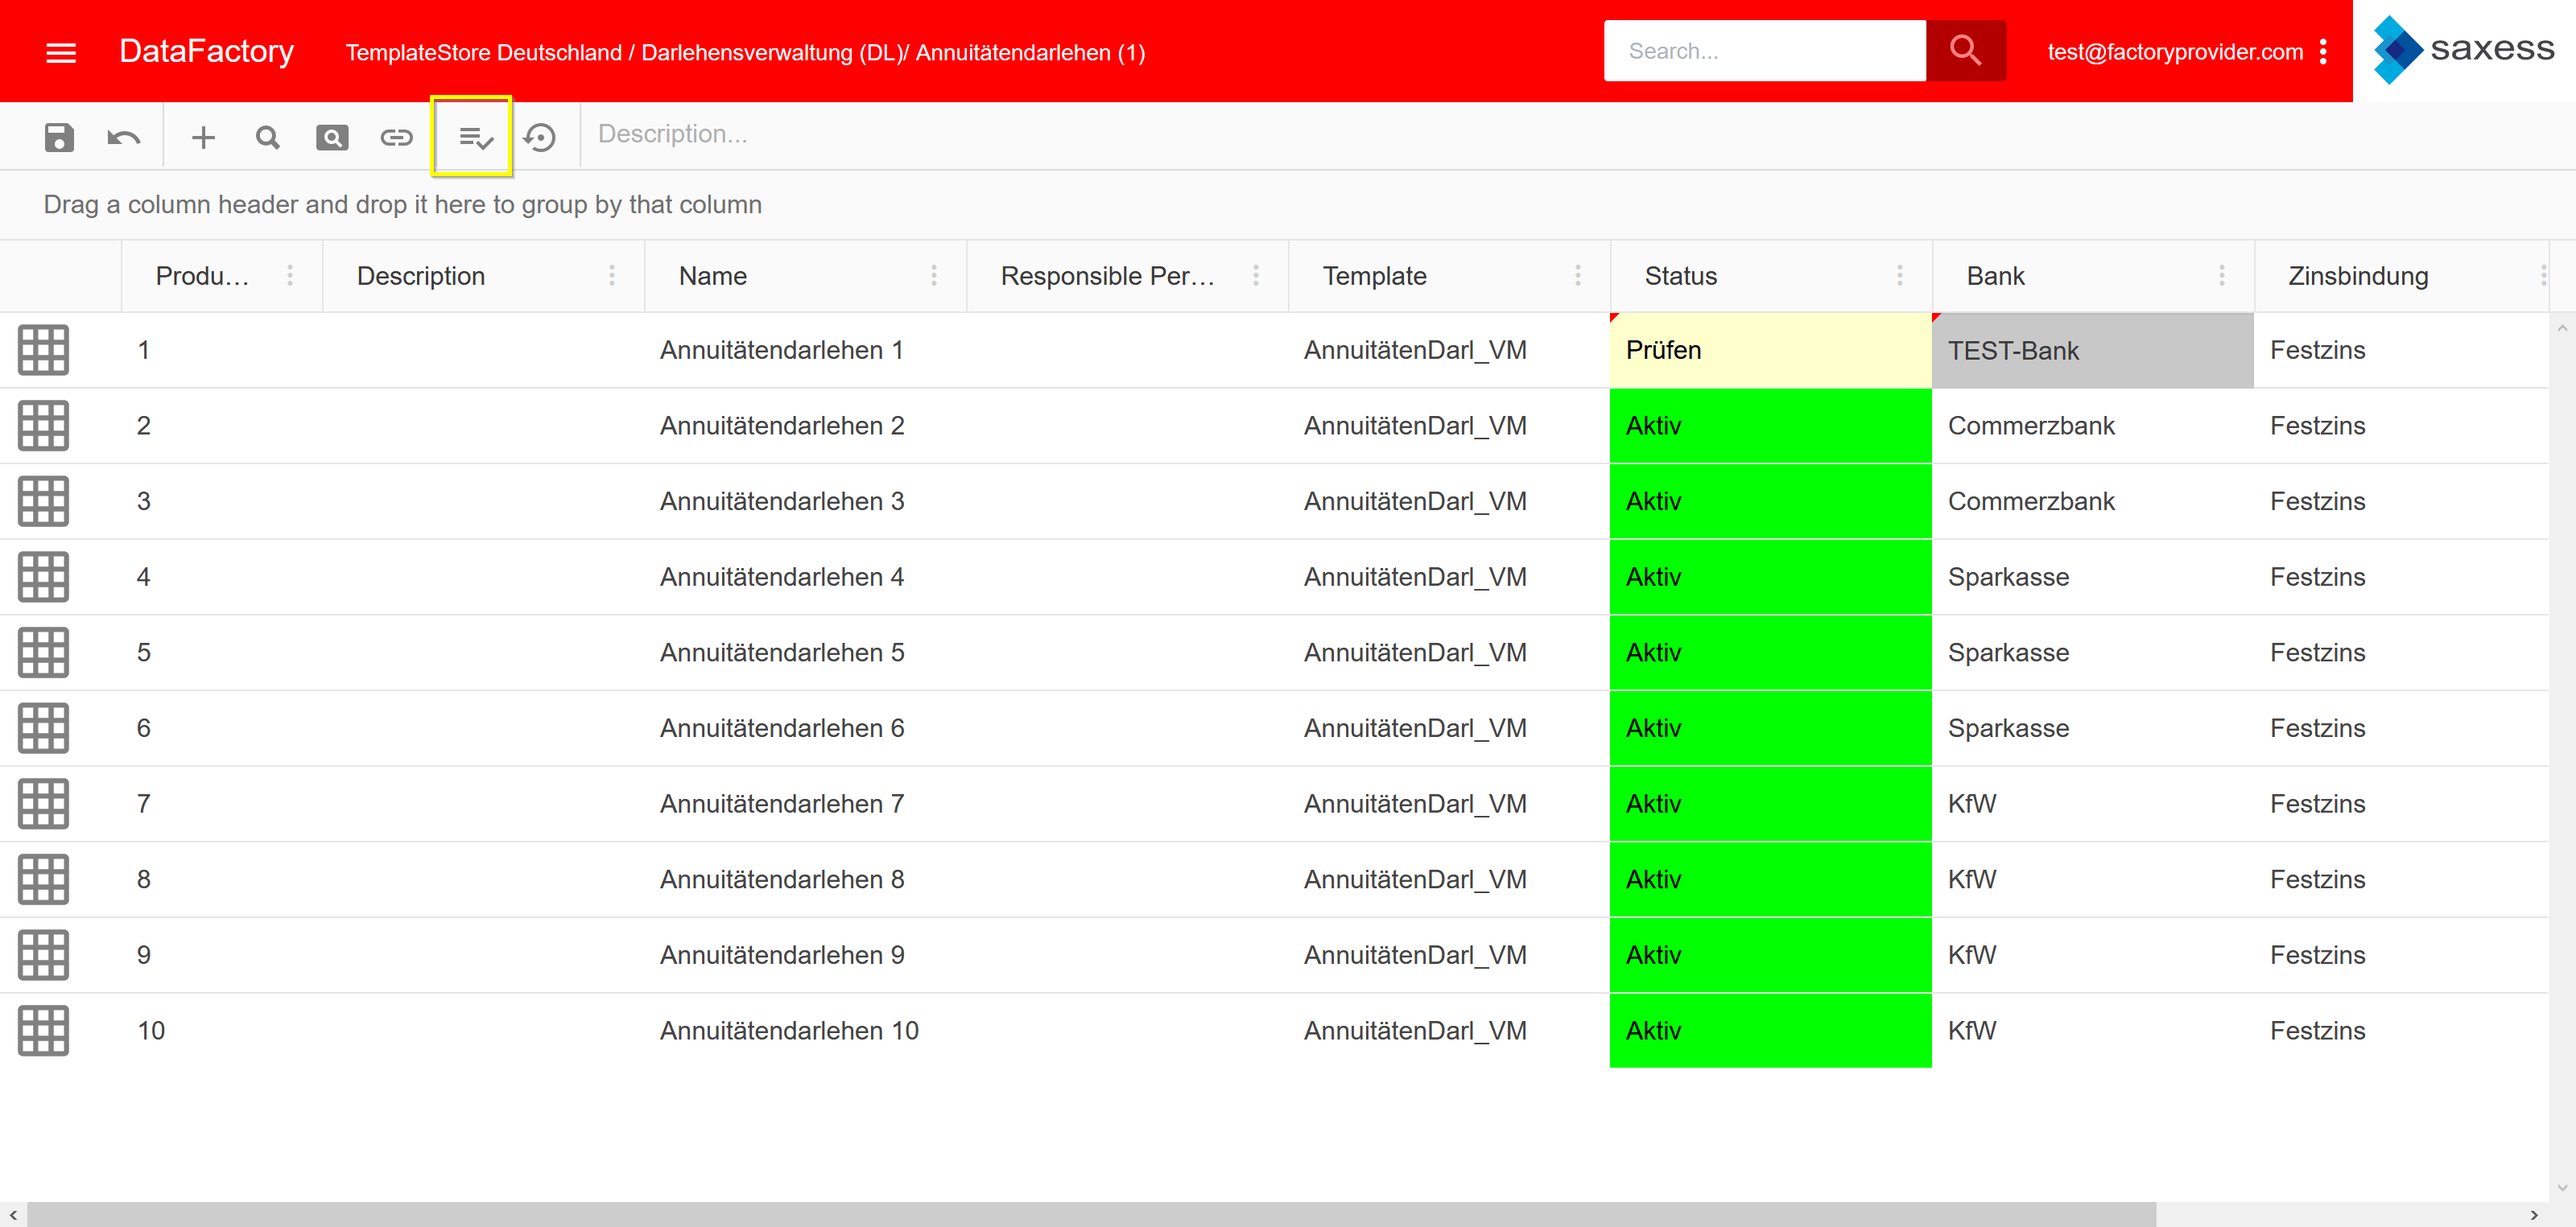
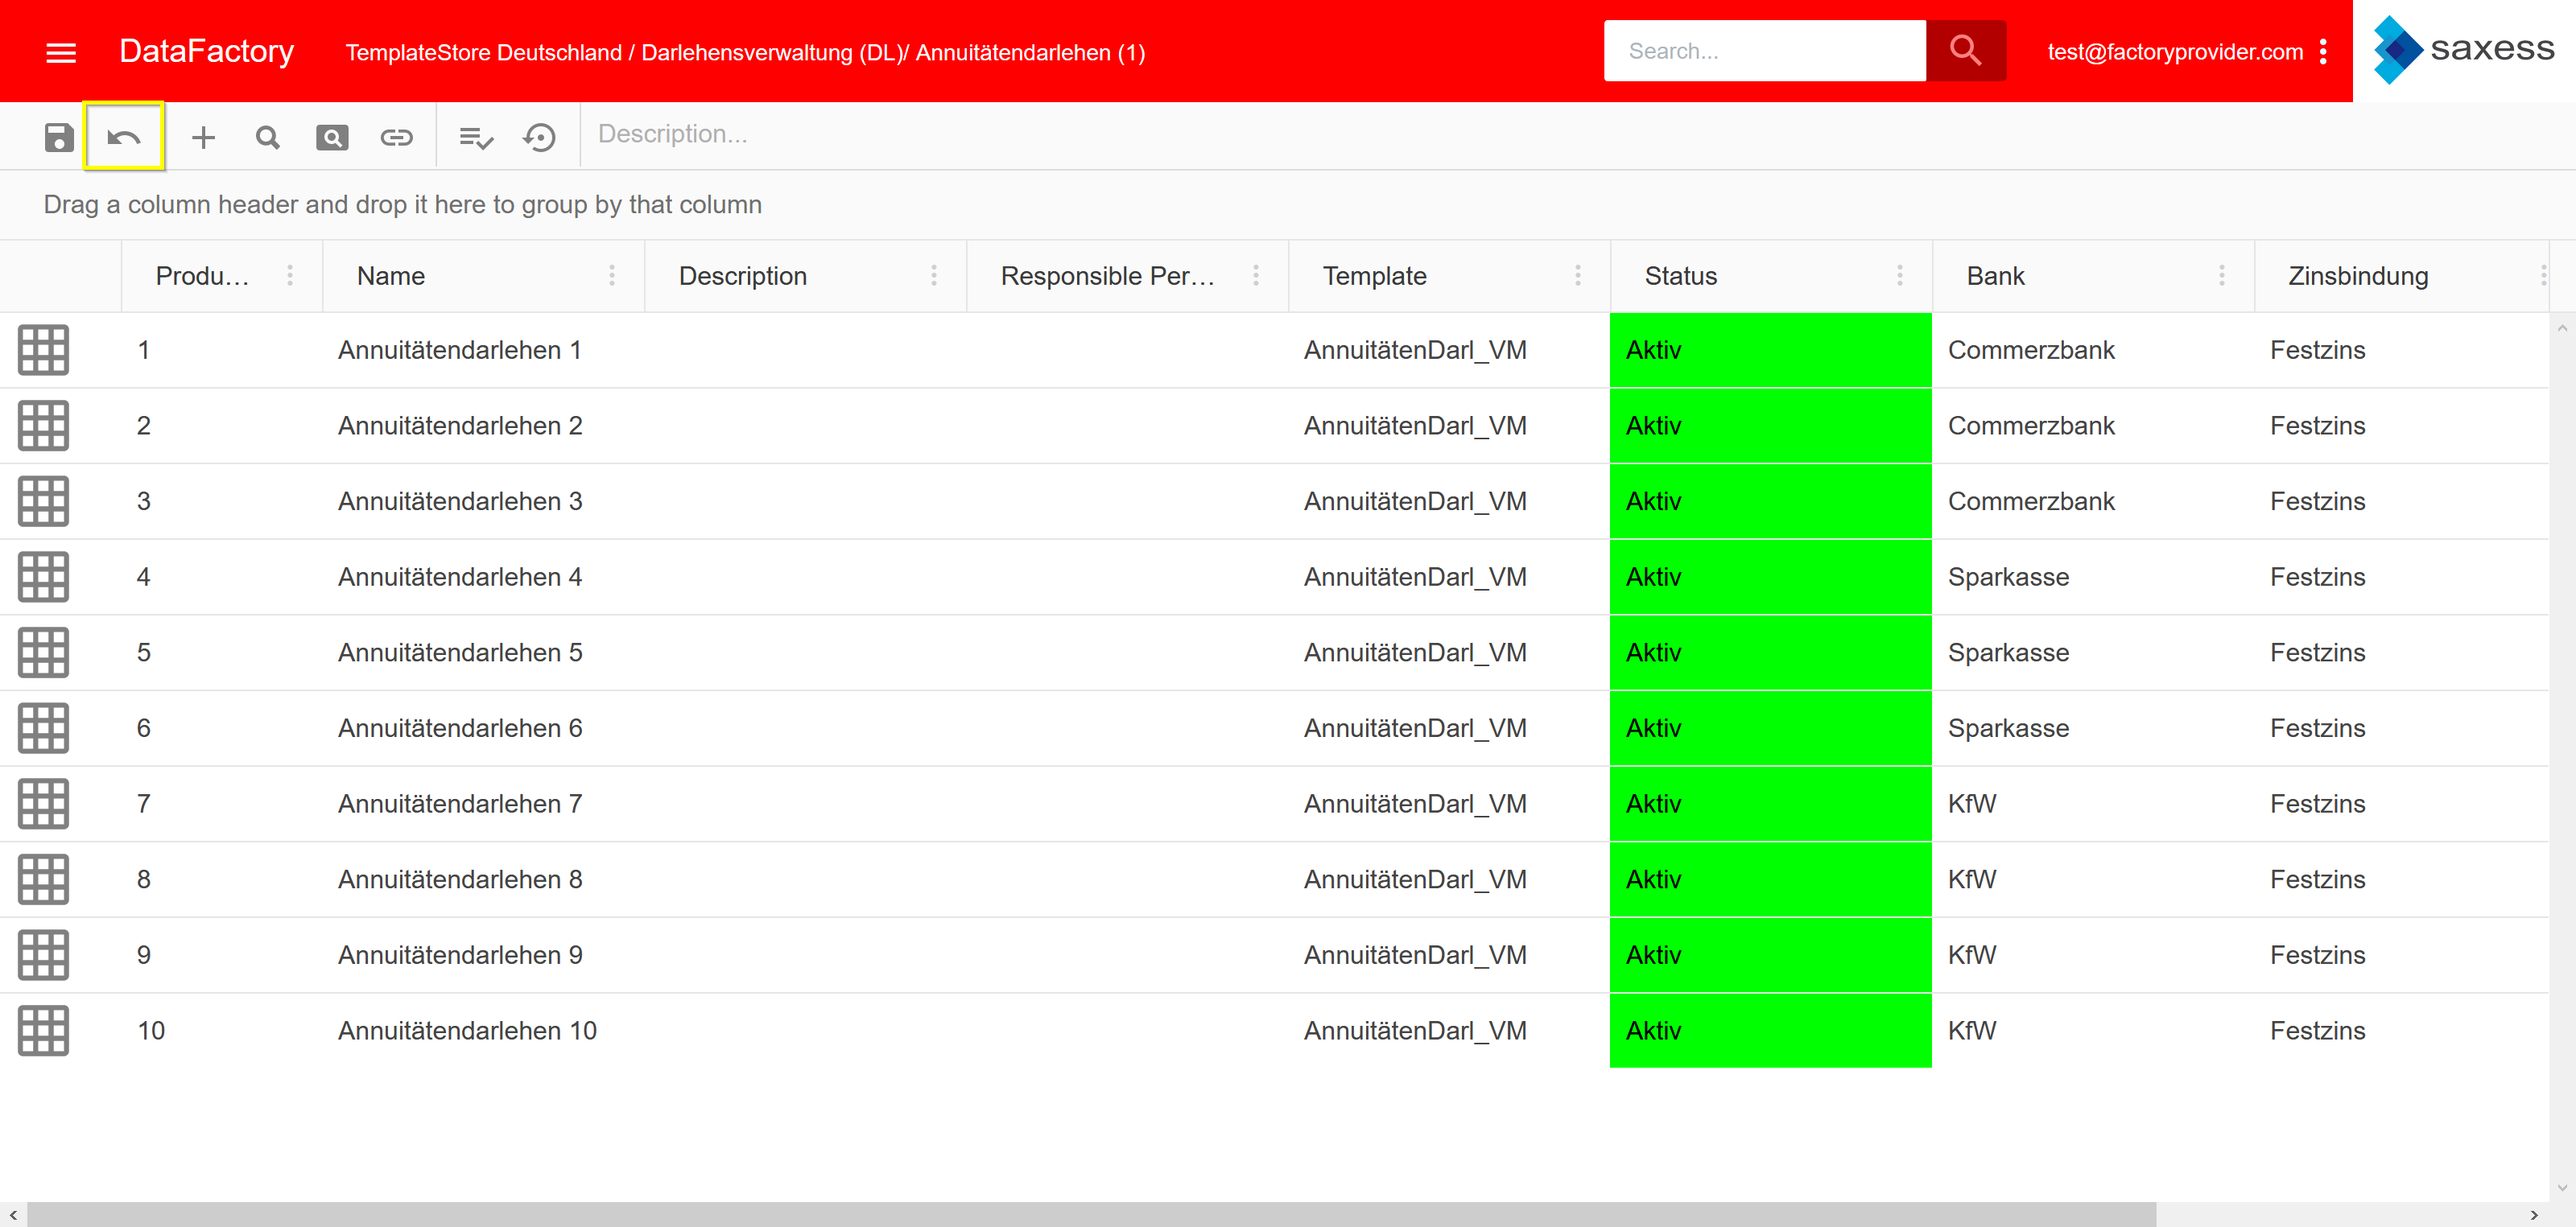
update producttable

diff --git a/der-web-client/produktlinie/produktubersicht/produkttabelle/speichern.md b/der-web-client/produktlinie/produktubersicht/produkttabelle/speichern.md
@@ -1,32 +1,51 @@
-### Speichern
+### Speichern und Zurücksetzen
 
-Ihnen stehen zwei Speicherfunktionen auf Ebene der Produktlinie zur Verfügung. Sie können:
+Ihnen stehen zwei Speicher- und Zurücksetzungsfunktionen auf Ebene der Produktlinie zur Verfügung. Sie können:
 
 * die in der Produkttabelle geänderten Daten
 * die am Layout vorgenommenen Änderungen
 
-speichern.
+speichern oder zurücksetzen.
 
-#### Daten speichern
+#### Daten
 
 Nachdem Sie Daten in der Produkttabelle geändert haben, müssen Sie diese mit einem Klick auf den Button **Speichern** in der Buttonleiste speichern. Die Änderungen werden damit in der Datenbank abgespeichert. Wenn Sie die geänderten Daten nicht speichern und Sie verlassen die Produktlinie, gehen diese Änderungen verloren. 
 
-> **Hinweis**: Wenn Sie Daten geändert haben und Sie versuchen, die Produktlinie ohne Speicherung zu verlassen, erscheint ein Warnfenster, dass Sie darauf hinweist, dass Ihre Daten verloren gehen werden, wenn Sie nicht speichern.
+> **Hinweis:** Wenn Sie Daten geändert haben und Sie versuchen, die Produktlinie ohne Speicherung zu verlassen, erscheint ein Warnfenster, dass Sie darauf hinweist, dass Ihre Daten verloren gehen werden, wenn Sie nicht speichern.
 
 ---
-![](/assets/wpl54.png)
-
----
-
-#### Layout speichern
-
-Wenn Sie Änderungen am Layout vorgenommen haben wie z.B. Gruppierungen, Spalten ausblenden, etc., dann können Sie diese Änderungen über **Layout speichern** in der Datenbank abspeichern. Wenn Sie die danach die Produktlinie neue betreten, wird Ihnen der Produkttabellenbereich sofort in Ihrem geänderten und gespeicherten Layout angezeigt. 
-
----
-![](/assets/wpl55.png)
+![](/Pictures/Web-Client/Produktlinie/Produktübersicht/Produkttabellenbereich/Speichern/speichern_l.png)
 
 ---
 
+Die Zellen, die zuvor mit einem roten Dreieck markiert waren, werden nun normal dargestellt.
 
+---
+![](/Pictures/Web-Client/Produktlinie/Produktübersicht/Produkttabellenbereich/Speichern/speichern_2.png)
 
+---
 
+Um die vorgenommenen Datenänderungen ruckgängig zu machen klicken Sie auf den Button **Datenänderungen Abbrechen**. Hierbei werden alle mit einem roten Dreieck markierten Zellen auf ihren ursprünglichen Wert zurückgesetzt.
+
+---
+![](/Pictures/Web-Client/Produktlinie/Produktübersicht/Produkttabellenbereich/Speichern/speichern_3.png)
+
+---
+
+#### Layout
+
+Wenn Sie Änderungen am Layout vorgenommen haben wie z.B. Gruppierungen, Spalten ausblenden, etc., dann können Sie diese Änderungen über **Layout speichern** in der Datenbank abspeichern. Wenn Sie danach die Produktlinie erneut betreten, wird Ihnen der Produkttabellenbereich sofort in Ihrem geänderten und gespeicherten Layout angezeigt. 
+
+---
+![](/Pictures/Web-Client/Produktlinie/Produktübersicht/Produkttabellenbereich/Speichern/speichern_4.png)
+
+---
+
+Damit das standardmäßige Layout wiederhergestellt wird klicken Sie auf den Button **Layout zurücksetzen**. Alternativ können Sie auch die Produkttabellenseite ohne die Änderungen am Layout gespeichert zu haben verlassen und erneut aufrufen.
+
+---
+![](/Pictures/Web-Client/Produktlinie/Produktübersicht/Produkttabellenbereich/Speichern/speichern_5.png)
+
+---
+
+>**Hinweis:** Verlassen Sie die Produkttabellenseite, ohne die Änderungen am Layout gespeichert zu haben, wird kein Dialogfenster ausgelöst.

diff --git a/der-web-client/produktlinie/produktubersicht/ubergeordneter-bereich.md b/der-web-client/produktlinie/produktubersicht/ubergeordneter-bereich.md
@@ -6,14 +6,20 @@ Hier finden Sie die folgenden Buttons:
 
 |Button|Beschreibung|
 |-|-|
-|Speichern|Sichert alle Daten, die Sie innerhalb der Produkttabelle geändert haben. Eine detaillierte Beschreibung hierzu finden Sie im Kapitel **Produkttabelle**.
-|Layout speichern|Sichert alle Änderungen, die Sie am Layout der Produkttabelle vorgenommen haben. Eine detaillierte Beschreibung hierzu finden Sie im Kapitel **Layout ändern**.|
-|Neues Produkt anlegen|Ein neues Produkt wird innerhalb der Produkttabelle angelegt. Eine detaillierte Beschreibung hierzu finden Sie im Kapitel **Neues Produkt anlegen**.|
+|![Speichern](/Pictures/Web-Client/Produktlinie/Produktübersicht/uebergeordneter-bereich/buttonleiste_1.png)|Sichert alle Daten, die Sie innerhalb der Produkttabelle geändert haben. Eine detaillierte Beschreibung hierzu finden Sie im Kapitel **Produkttabellenbereich**.
+|![Datenänderungen abbrechen](/Pictures/Web-Client/Produktlinie/Produktübersicht/uebergeordneter-bereich/buttonleiste_2.png)|Verwirft alle Änderungen an Werten die Sie innerhalb der Produkttabelle vorgenommen haben. Eine detaillierte Beschreibung hierzu finden Sie im Kapitel **Layout ändern**.|
+|![Produkt hinzufügen](/Pictures/Web-Client/Produktlinie/Produktübersicht/uebergeordneter-bereich/buttonleiste_3.png)|Ein neues Produkt wird innerhalb der Produkttabelle angelegt. Eine detaillierte Beschreibung hierzu finden Sie im Kapitel **Neues Produkt anlegen**.|
+|![FlexSuche](/Pictures/Web-Client/Produktlinie/Produktübersicht/uebergeordneter-bereich/buttonleiste_4.png)| Eine detaillierte Beschreibung hierzu finden Sie im Kapitel **Neues Produkt anlegen**.|
+|![FlexAction](/Pictures/Web-Client/Produktlinie/Produktübersicht/uebergeordneter-bereich/buttonleiste_5.png)| Eine detaillierte Beschreibung hierzu finden Sie im Kapitel **Neues Produkt anlegen**.|
+|![Hyperlink bearbeiten](/Pictures/Web-Client/Produktlinie/Produktübersicht/uebergeordneter-bereich/buttonleiste_6.png)|Öffnet ein Dialogfenster zum hinzufügen und entfernen von Hyperlinks. Eine detaillierte Beschreibung hierzu finden Sie im Kapitel **Werte ändern**.|
+|![Layout speichern](/Pictures/Web-Client/Produktlinie/Produktübersicht/uebergeordneter-bereich/buttonleiste_7.png)| Speichert alle Änderungen am Layout der Produkttabelle. Eine detaillierte Beschreibung hierzu finden Sie im Kapitel **Layout ändern**.|
+|![Layout zurücksetzen](/Pictures/Web-Client/Produktlinie/Produktübersicht/uebergeordneter-bereich/buttonleiste_8.png)|Stellt das Standard-Layout für die Produkttabelle wieder her. Eine detaillierte Beschreibung hierzu finden Sie im Kapitel **Layout ändern**.|
 
 #### *Erläuterungszeile*
 
 Hier haben Sie die Möglichkeit, den Inhalt Ihrer Produktlinie näher zu beschreiben.
 
+<!---
 #### *Suchleiste*
 
 Hier können Sie einen Begriff eingeben, welchen Sie in der Produkttabelle suchen möchten. 
@@ -78,5 +84,4 @@ Um die Fusszeile einzublenden, gehen Sie wie folgt vor.
 ---
 
 > **Hinweis**: Die Fusszeile können Sie auf dem gleichen Weg wie in Schritt 1 beschrieben wieder entfernen.
-
-
+-->

diff --git a/der-web-client/produktlinie/produktubersicht/produkttabelle/werte-andern.md b/der-web-client/produktlinie/produktubersicht/produkttabelle/werte-andern.md
@@ -49,3 +49,41 @@ In der Produkttabelle können Sie, bis auf die Produkt ID, alle Werte in allen S
 ---
 
 >**Hinweis:** Der Inhalt des Dropdown-Menüs lässt sich mit Hilfe des Excel-Clients bestimmen und ist gleich der verwendeten Werteliste. Siehe Kapitel **"Werteliste hinzufügen"**.
+
+<!---
+#### Werte ändern mit FlexSearch
+
+
+#### Werte ändern mit FlexAction
+
+
+-->
+
+#### Links einfügen
+
+1) Bei Bedarf können Sie auch Links als Zellenwerte einfügen. Klicken Sie als erstes auf die zu bearbeitende Zelle und 2) anschließend auf den Button **Hyperlink bearbeiten**.
+
+---
+![](/Pictures/Web-Client/Produktlinie/Produktübersicht/Produkttabellenbereich/Werte-aendern/werte_aendern_7.png)
+
+---
+---
+![Es öffnet sich ein Dialogfenster.](/Pictures/Web-Client/Produktlinie/Produktübersicht/Produkttabellenbereich/Werte-aendern/werte_aendern_8.png)
+
+---
+
+3) Tragen Sie den anzuzeigenden Namen und die URL des Links ein. Bestätigen Sie abschließend mit **OK**.
+
+---
+![](/Pictures/Web-Client/Produktlinie/Produktübersicht/Produkttabellenbereich/Werte-aendern/werte_aendern_9.png)
+
+---
+
+4) Der Link wurde eingefügt.
+
+---
+![](/Pictures/Web-Client/Produktlinie/Produktübersicht/Produkttabellenbereich/Werte-aendern/werte_aendern_10.png)
+
+---
+
+>**Hinweis:** Um den Link zu entfernen gehen sie wie in Schritt 1 & 2 beschrieben vor und klicken dann auf **Entfernen Sie den Link**.

diff --git a/der-web-client/produktlinie/produktubersicht/produkttabelle/daten-aktualisieren.md b/der-web-client/produktlinie/produktubersicht/produkttabelle/daten-aktualisieren.md
@@ -2,11 +2,10 @@
 
 Wenn Sie eine Produktlinie betreten und sich die Produkttabelle anzeigen lassen, werden immer die aktuellen Daten aus der Datenbank in Ihren Produkttabellenbereich geladen. Werden jedoch Daten in DataFactory aktualisiert, während Sie sich in der Produktlinie befinden, werden Ihnen diese aktualisierten Werte nicht automatisch in Ihrer Produkttabelle angezeigt. Sie müssen die Aktualisierung der Daten dann manuell auslösen.
 
-1) Klicken Sie mit der rechten Maustaste in ein Feld der Produkttabelle. Es öffnet sich ein Feld mit der Option **Aktualisieren**.
+Dazu aktualisieren Sie die Seite über Ihren Browser. Drücken Sie hierfür auf das jeweilige Symbol oder drücken Sie F5.
 
 ---
-![](/assets/wpl53.png)
+![](Pitcures/Web-Client/Produktlinie/Produktübersicht/Produkttabellenbereich/Daten aktualisieren/daten_aktualisieren_1.png)
+
 ---
 
-
-2) Die aktualisierten Daten werden Ihnen angezeigt.

diff --git a/Summary.md b/Summary.md
@@ -120,7 +120,7 @@
         * [Produkte hinzufügen oder löschen](der-web-client/produktlinie/produktubersicht/produkttabelle/produkte-hinzufugen-oder-loeschen.md)
         * [Werte ändern](der-web-client/produktlinie/produktubersicht/produkttabelle/werte-andern.md)
         * [Daten aktualisieren](der-web-client/produktlinie/produktubersicht/produkttabelle/daten-aktualisieren.md)
-        * [Speichern](der-web-client/produktlinie/produktubersicht/produkttabelle/speichern.md)
+        * [Speichern und Zurücksetzen](der-web-client/produktlinie/produktubersicht/produkttabelle/speichern.md)
       * [Übergeordneter Bereich](der-web-client/produktlinie/produktubersicht/ubergeordneter-bereich.md)
   * [Produkt](der-web-client/produkt.md)
     * [Navigation](der-web-client/produkt/navigation.md)
